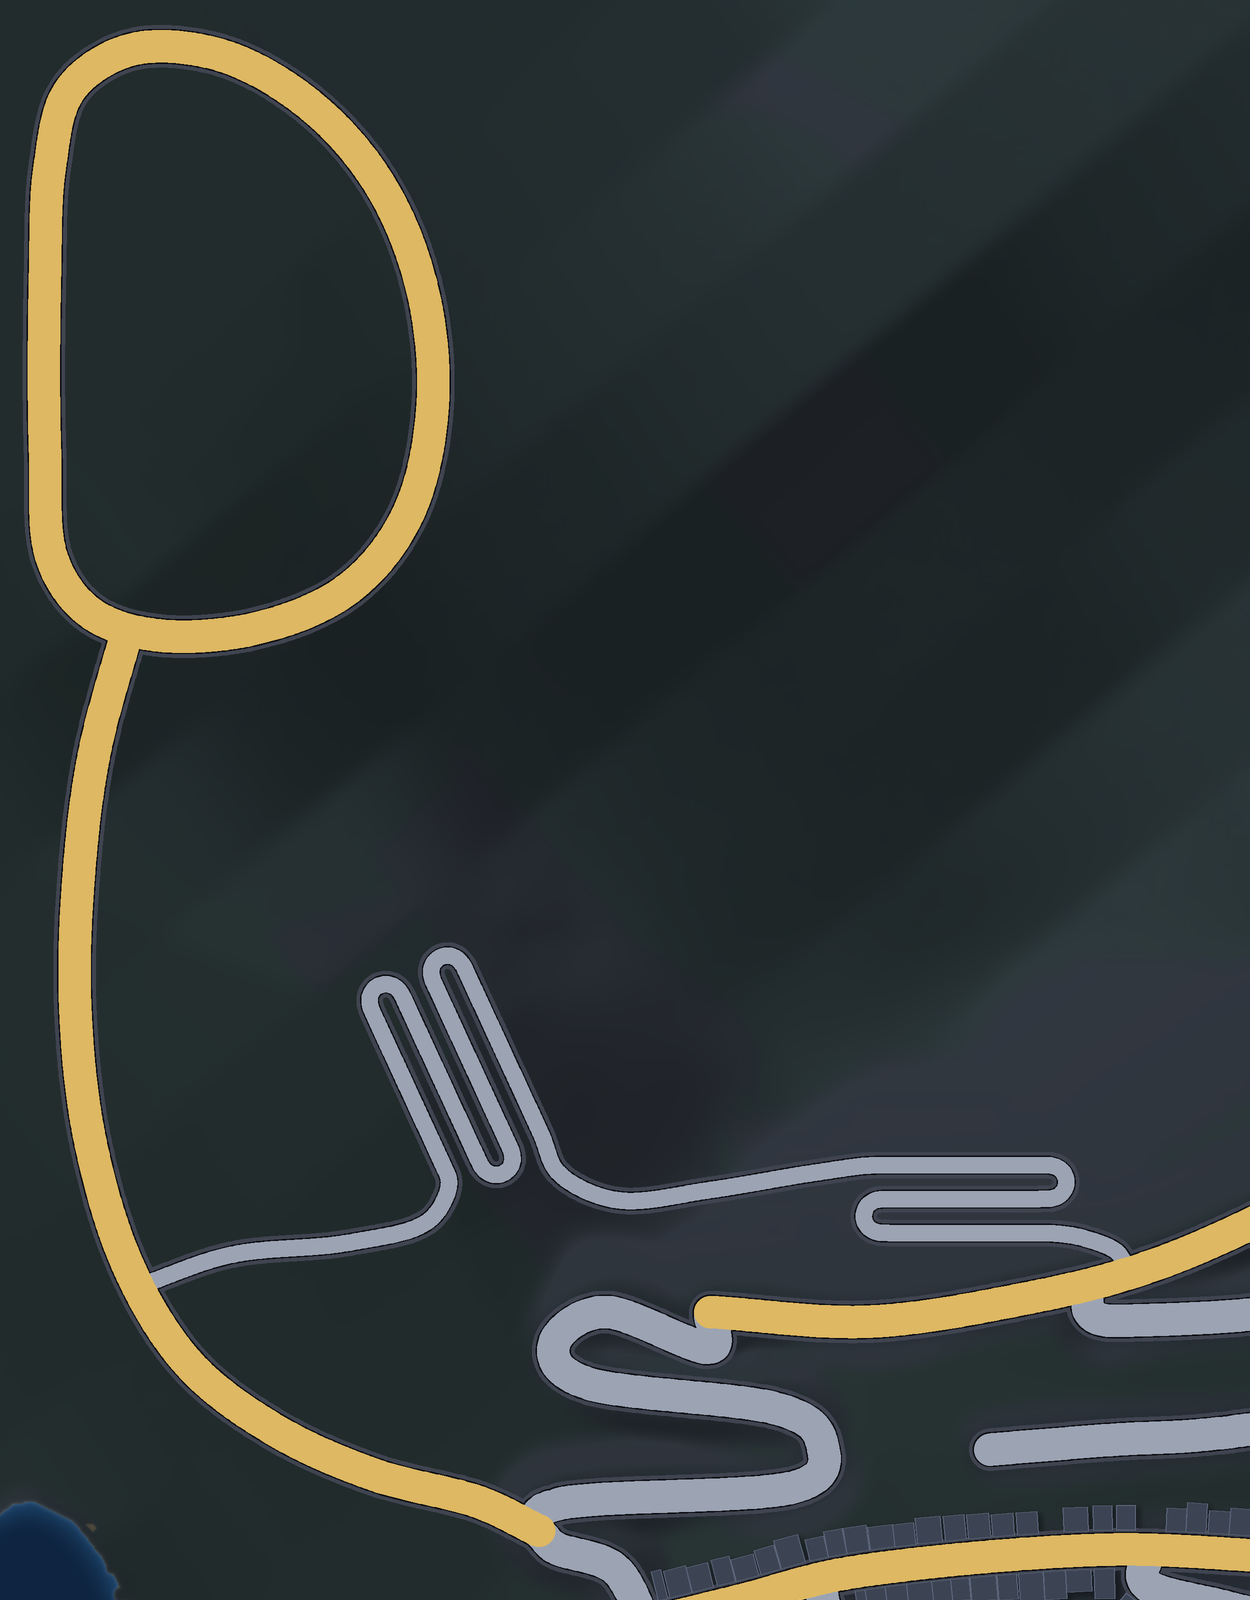
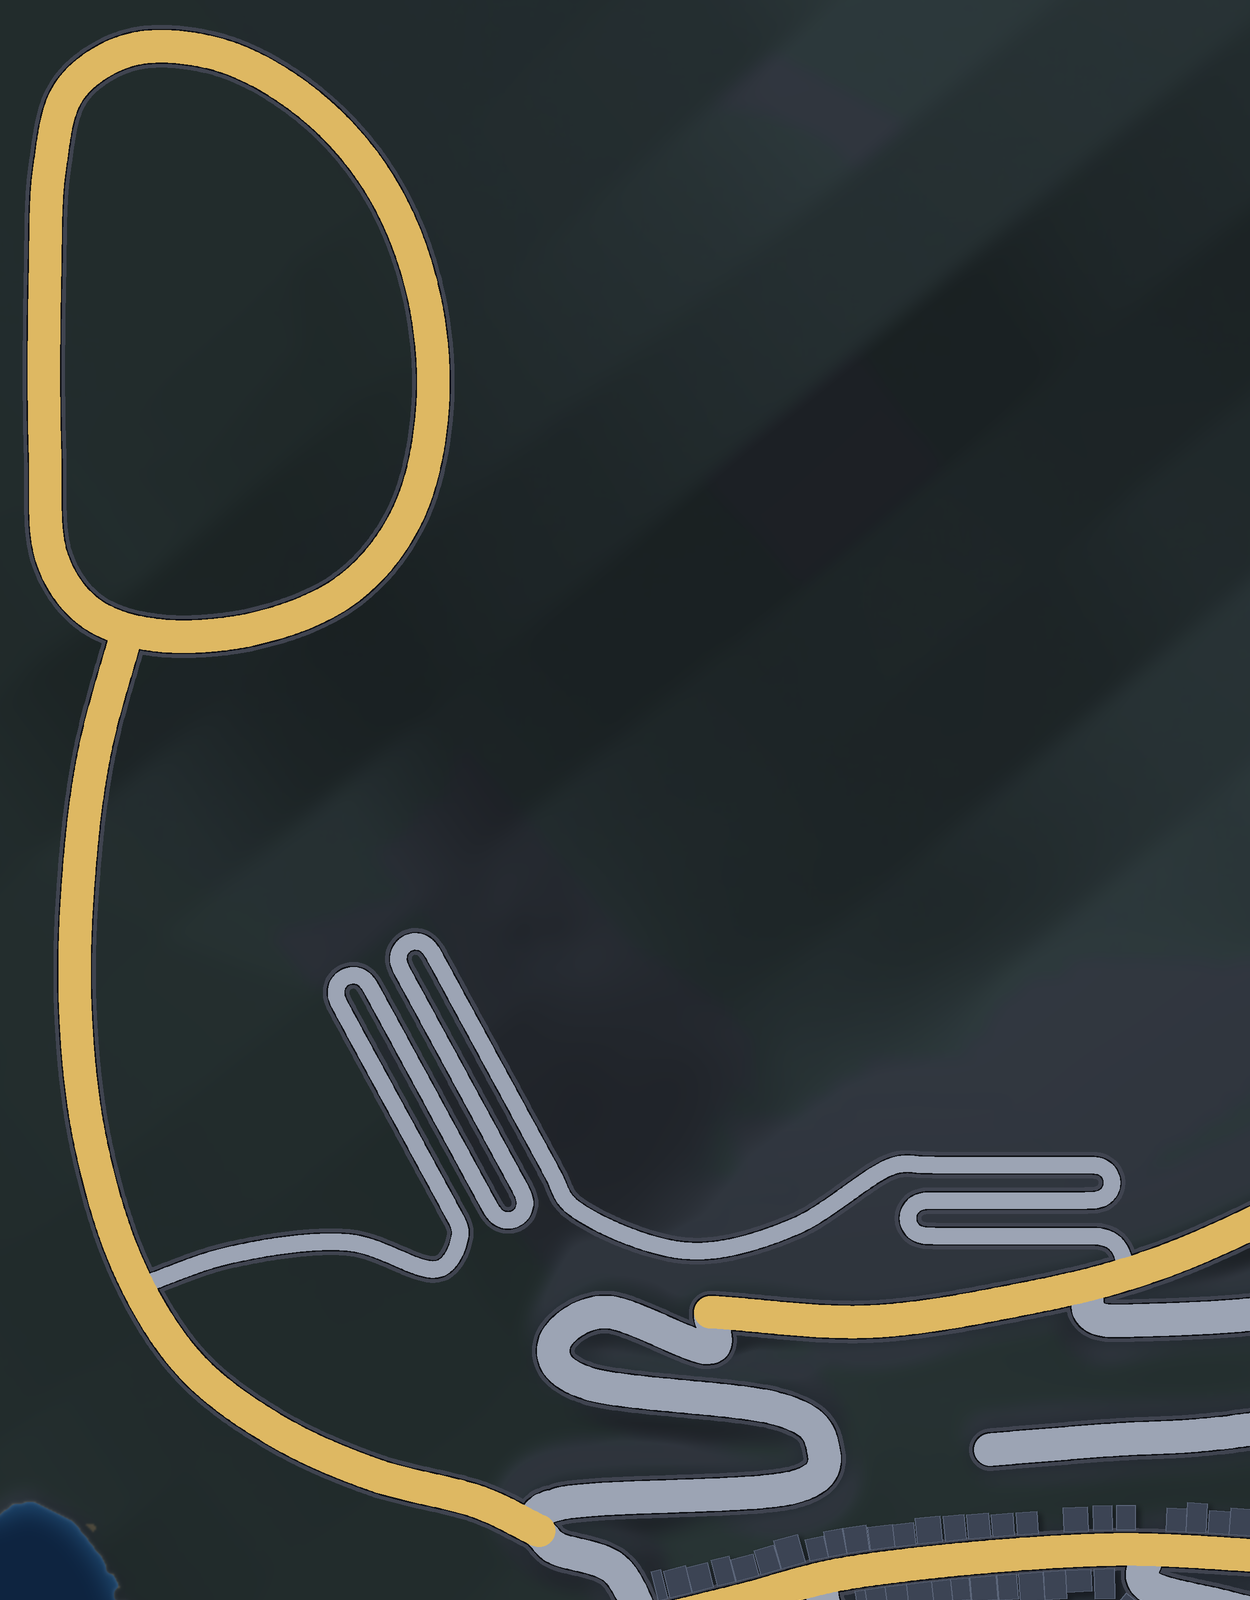
City Legends: Summit Pass refitted to the hill (pass_fit search: less digging), cliff road with a rock arch like the owner's photo, leaning stone parapets (no stepped, flickering wall tops), smooth joins onto the highway and the Mountain Road (lane test: no holes / kerbs / blocks, biggest step 0.23)

Changed region(s): [[0.2184, 0.5625, 0.9048, 0.8125]]

diff --git a/Games/CityLegends/tools/map_plan/highway_terrain.py b/Games/CityLegends/tools/map_plan/highway_terrain.py
@@ -29,7 +29,7 @@ OUT = os.path.join(ROOT, "build", "riviera_hw")
 
 CORE = 32 + 10 + 2  # carriageway + shoulder + a little
 REACH = 220  # banks end here at the latest
-CUT_SLOPE = 2.2  # rise per stud out from the shoulder (a steep rock cutting)
+CUT_SLOPE = 2.0  # rise per stud out from the shoulder (a steep rock cutting)
 FILL_SLOPE = 0.9  # fall per stud (an earth embankment)
 BLEND = 50  # the last studs of the reach fade back to the natural ground (no cliff at the edge)
 KEEP = 50  # cells this close to an existing road's centre line stay as they are
@@ -47,38 +47,50 @@ def main():
     hw = json.load(open(os.path.join(RIV, "highway.json")))["roads"]
     old = json.load(open(os.path.join(RIV, "roads.json")))["roads"]
 
-    best = np.full(H.shape, 1e9, dtype=np.float32)  # distance to the highway's centre line
-    road_y = np.zeros(H.shape, dtype=np.float32)
-    core_w = np.full(H.shape, CORE, dtype=np.float32)  # each cell's road's flat width (half)
+    best = np.full(H.shape, 1e9, dtype=np.float32)  # distance to the nearest highway centre line
+    road_y = np.zeros(H.shape, dtype=np.float32)       # that road's height (for the flat bed)
+    core_w = np.full(H.shape, CORE, dtype=np.float32)  # that road's flat half width
+    # (2026-11-04, the pass's stacked legs) every road nearby limits the ground: no higher than the
+    # lowest cut line of them all, no lower than the highest fill line; with only the nearest road's
+    # lines, the ground jumped by a whole leg's height half way between two legs
+    cut_min = np.full(H.shape, 1e9, dtype=np.float32)
+    fill_max = np.full(H.shape, -1e9, dtype=np.float32)
     near_old = np.full(H.shape, 1e9, dtype=np.float32)
 
-    def stamp(samples, radius, dist, yv=None, core=None):
+    def window(x, z, radius):
         r = int(radius / C) + 2
-        for s in samples:
-            x, y, z = s[0], s[1], s[2]
-            ci, cj = int((x - X0) / C), int((z - Z0) / C)
-            i0, i1 = max(ci - r, 0), min(ci + r + 1, H.shape[1])
-            j0, j1 = max(cj - r, 0), min(cj + r + 1, H.shape[0])
-            if i0 >= i1 or j0 >= j1:
-                continue
-            cx = X0 + C * (np.arange(i0, i1) + 0.5)
-            cz = Z0 + C * (np.arange(j0, j1) + 0.5)
-            dd = np.sqrt((cx[None, :] - x) ** 2 + (cz[:, None] - z) ** 2).astype(np.float32)
-            sub = dist[j0:j1, i0:i1]
-            m = dd < sub
-            sub[m] = dd[m]
-            if yv is not None:
-                yy = yv[j0:j1, i0:i1]
-                yy[m] = y
-            if core is not None:
-                cc = core_w[j0:j1, i0:i1]
-                # (the pass: its walls stand at the road's edge, no shoulders)
-                cc[m] = (s[6] + 4) if s[6] < 30 else CORE
+        ci, cj = int((x - X0) / C), int((z - Z0) / C)
+        i0, i1 = max(ci - r, 0), min(ci + r + 1, H.shape[1])
+        j0, j1 = max(cj - r, 0), min(cj + r + 1, H.shape[0])
+        if i0 >= i1 or j0 >= j1:
+            return None
+        cx = X0 + C * (np.arange(i0, i1) + 0.5)
+        cz = Z0 + C * (np.arange(j0, j1) + 0.5)
+        dd = np.sqrt((cx[None, :] - x) ** 2 + (cz[:, None] - z) ** 2).astype(np.float32)
+        return (slice(j0, j1), slice(i0, i1)), dd
 
     for r in hw:
-        stamp(r["s"], REACH, best, road_y, core=True)
+        for s in r["s"]:
+            win = window(s[0], s[2], REACH)
+            if not win:
+                continue
+            sl, dd = win
+            core = (s[6] + 4) if s[6] < 30 else CORE  # (the pass: walls at its edge, no shoulders)
+            out = np.maximum(dd - core, 0)
+            bed = s[1] - 1.5
+            np.minimum(cut_min[sl], bed + out * CUT_SLOPE, out=cut_min[sl])
+            np.maximum(fill_max[sl], bed - out * FILL_SLOPE, out=fill_max[sl])
+            sub = best[sl]
+            m = dd < sub
+            sub[m] = dd[m]
+            road_y[sl][m] = s[1]
+            core_w[sl][m] = core
     for r in old:
-        stamp(r["s"][::1], KEEP + 8, near_old)
+        for s in r["s"]:
+            win = window(s[0], s[2], KEEP + 8)
+            if win:
+                sl, dd = win
+                np.minimum(near_old[sl], dd, out=near_old[sl])
 
     newH = H.copy()
     newM = M.copy()
@@ -86,19 +98,17 @@ def main():
     core = zone & (best <= core_w)
     flat = road_y - 1.5
     out_d = np.maximum(best - core_w, 0)
-    cut_top = flat + out_d * CUT_SLOPE
-    fill_bot = flat - out_d * FILL_SLOPE
-    # core: flat; banks: the ground clipped between the fill and cut lines
     newH[core] = flat[core]
     bank = zone & ~core
-    newH[bank] = np.clip(H[bank], fill_bot[bank], cut_top[bank])
+    lo = np.minimum(fill_max, cut_min)
+    newH[bank] = np.clip(H[bank], lo[bank], cut_min[bank])
     fade = np.clip((best - (REACH - BLEND)) / BLEND, 0, 1)
     fade = fade * fade * (3 - 2 * fade)
     newH[bank] = newH[bank] * (1 - fade[bank]) + H[bank] * fade[bank]
     newM[core] = "A"
     cutm = bank & (H > newH + 0.3)
     fillm = bank & (H < newH - 0.3)
-    newM[cutm] = "L"
+    newM[cutm] = "R"  # (grey rock cuttings: the pale limestone read as snow)
     newM[fillm & (out_d < 30)] = "D"
     newM[fillm & (out_d >= 30)] = "G"
     # existing roads' ground stays
@@ -106,6 +116,17 @@ def main():
     newH[keep] = H[keep]
     newM[keep] = M[keep]
     changed = (np.abs(newH - H) > 0.12) | (newM != M)
+    # --restore x0 z0 x1 z1: also write the natural ground back over that box (where nothing above
+    # changes it and away from the old roads), undoing an earlier version's cuts and fills
+    if "--restore" in sys.argv:
+        k = sys.argv.index("--restore")
+        bx0, bz0, bx1, bz1 = (float(v) for v in sys.argv[k + 1:k + 5])
+        cx = X0 + C * (np.arange(H.shape[1]) + 0.5)
+        cz = Z0 + C * (np.arange(H.shape[0]) + 0.5)
+        box = ((cx[None, :] >= bx0) & (cx[None, :] <= bx1)) & ((cz[:, None] >= bz0) & (cz[:, None] <= bz1))
+        extra = box & ~changed & ~keep
+        print("restoring", int(extra.sum()), "cells to the natural ground")
+        changed = changed | extra
     print("cells changed:", int(changed.sum()), " deepest cut %.0f, highest fill %.0f" % (float((H - newH).max()), float((newH - H).max())))
 
     os.makedirs(OUT, exist_ok=True)

diff --git a/Games/CityLegends/tools/map_plan/highway.py b/Games/CityLegends/tools/map_plan/highway.py
@@ -50,7 +50,7 @@ PASS_END = (11951, -251)   # on the Mountain Road (the T; set to its nearest sam
 HAIRPIN_GAP = 68           # between the centre lines of two legs of a stack
 
 
-def stack(start, d, n_legs, length, side):
+def stack(start, d, n_legs, length, side, gap=None):
     """n_legs straight legs of `length` from `start` heading `d`, joined by hairpins; the next leg
     lies HAIRPIN_GAP to the `side` (+1: the right of the first leg's way, -1: its left)"""
     d = np.array(d, dtype=float)
@@ -59,7 +59,8 @@ def stack(start, d, n_legs, length, side):
     nrm = right * side
     pts = []
     p = np.array(start, dtype=float)
-    r = HAIRPIN_GAP / 2
+    gap = gap or HAIRPIN_GAP
+    r = gap / 2
     for k in range(n_legs):
         e = p + d * length
         for t in np.linspace(0, 1, int(length / 4) + 1)[:-1]:
@@ -70,33 +71,55 @@ def stack(start, d, n_legs, length, side):
         c = e + nrm * r
         for th in np.linspace(0, math.pi, 24)[:-1]:
             pts.append(c - nrm * r * math.cos(th) + d * r * math.sin(th))
-        p = e + nrm * HAIRPIN_GAP
+        p = e + nrm * gap
         d = -d
     return pts, p if n_legs % 2 == 1 else p, d
 
 
-def pass_line():
-    # approach from the T on the valley road, east to the foot of the west face
-    # (it comes up to the stack's first leg from the south, already turning onto it: no kink)
-    w_start = np.array((10600.0, -440.0))
-    w_d = np.array((-0.42, -0.91)) / np.linalg.norm((-0.42, -0.91))
-    a = catmull([PASS_START, (10160, -290), (10400, -315), (10560, -360), tuple(w_start), tuple(w_start + w_d * 40)], False, per=16)
+# the pass's shape (tools/map_plan/pass_fit.py searched these so the road sits on the hill, not deep in it)
+PASS_PARAMS = {
+    "w_x": 10622.5, "w_z": -342.5, "w_ang": -118.5, "w_len": 518.8, "w_gap": 71.0, "w_legs": 4,
+    "t1": 120.0, "t2": 100.0,
+    "s_x": 11550.0, "s_z": -470.0, "s_ang": 0.0, "s_len": 340.0, "s_gap": 71.0, "s_legs": 3,
+}
+
+
+def pass_line(P=None):
+    P = dict(PASS_PARAMS, **(P or {}))
+    # the west stack: legs along the face, climbing; each next leg further up (to the right)
+    ang = math.radians(P["w_ang"])
+    w_d = np.array((math.cos(ang), math.sin(ang)))
+    w_start = np.array((P["w_x"], P["w_z"]))
+    # approach from the T on the valley road, coming up to the first leg already turning onto it
+    a = catmull([PASS_START, (10160, -290), (10400, -315), tuple(w_start + np.array((-40, 80))), tuple(w_start), tuple(w_start + w_d * 40)], False, per=16)
     j = int(np.argmin(np.linalg.norm(a - w_start, axis=1)))
     a = a[:j]
-    # the west stack: legs NNW / SSE along the face, climbing; each next leg further up (east)
-    w_dir = (-0.42, -0.91)
-    ws_pts, _, _ = stack((10600, -440), w_dir, 4, 380, +1)
-    # across the south face, high up (the rock arch on the way), to the top of the south stack
-    last = ws_pts[-1]
-    t = catmull([tuple(last), (last[0] + 30, last[1] + 70), (10930, -400), (11120, -420), (11300, -450), (11420, -468)], False, per=16)
-    # the south stack: legs east / west, coming down towards the Mountain Road (each next leg lower: south)
-    ss_pts, _, d_end = stack((11460, -470), (1, 0.0), 3, 340, +1)
+    ws_pts, _, w_end_d = stack(tuple(w_start), tuple(w_d), int(P["w_legs"]), P["w_len"], +1, P["w_gap"])
+    # the south stack (legs coming down towards the Mountain Road, each next leg lower: to the right)
+    sang = math.radians(P["s_ang"])
+    s_d = np.array((math.cos(sang), math.sin(sang)))
+    s_start = np.array((P["s_x"], P["s_z"]))
+    ss_pts, _, d_end = stack(tuple(s_start), tuple(s_d), int(P["s_legs"]), P["s_len"], +1, P["s_gap"])
+    # across the face between them: leaving the west stack along its last leg, arriving along the
+    # south stack's first; two middle points, shifted across the line by t1 / t2
+    last = np.array(ws_pts[-1])
+    out_d = np.array(w_end_d) / np.linalg.norm(w_end_d)
+    a0 = last + out_d * 60
+    b0 = s_start - s_d * 60
+    line_d = (b0 - a0) / max(np.linalg.norm(b0 - a0), 1e-6)
+    nrm = np.array((-line_d[1], line_d[0]))
+    m1 = a0 + (b0 - a0) / 3 + nrm * P["t1"]
+    m2 = a0 + (b0 - a0) * 2 / 3 + nrm * P["t2"]
+    t = catmull([tuple(last), tuple(a0), tuple(m1), tuple(m2), tuple(b0), tuple(s_start)], False, per=16)
     # to the T on the Mountain Road
-    e = ss_pts[-1]
-    tail = catmull([tuple(e), (e[0] + 60, e[1] + 8), (PASS_END[0] - 10, PASS_END[1] - 40), PASS_END], False, per=16)
-    line = list(a) + [np.array(q) for q in ws_pts] + list(t[1:]) + [np.array(q) for q in ss_pts] + list(tail[1:])
+    # (one smooth turn: a quadratic curve through the corner where the last leg's line meets the
+    # line straight up from the T)
+    e = np.array(ss_pts[-1])
+    corner = np.array((PASS_END[0], e[1]))
+    end = np.array(PASS_END, dtype=float)
+    tail = [e * (1 - u) ** 2 + corner * 2 * u * (1 - u) + end * u * u for u in np.linspace(0, 1, 40)]
+    line = list(a) + [np.array(q) for q in ws_pts] + list(t[1:-1]) + [np.array(q) for q in ss_pts] + list(tail[1:])
     return np.array(line)
-
 
 
 def catmull(pts, closed, per=24):

diff --git a/Games/CityLegends/tools/map_plan/pass_fit.py b/Games/CityLegends/tools/map_plan/pass_fit.py
@@ -1,0 +1,99 @@
+"""
+Fits the Summit Pass to the hill (2026-11-04): the first build sat its hairpin legs too far up the
+face for their heights, so the road ran in cuttings up to ~150 studs deep. This searches the pass's
+shape parameters (highway.PASS_PARAMS: where each stack of hairpins starts, the legs' direction,
+length and spacing, the traverse between the stacks) one at a time, a few rounds, for the road that
+needs the least digging and filling, keeping clear of the Mountain Road and its own legs apart.
+Prints the best parameters to paste into highway.PASS_PARAMS.
+
+usage (from Games/CityLegends): python tools/map_plan/pass_fit.py
+"""
+import json
+import math
+import os
+import sys
+
+import numpy as np
+
+HERE = os.path.dirname(os.path.abspath(__file__))
+sys.path.insert(0, HERE)
+import highway as hw  # noqa: E402
+
+meta, H = hw.ground()
+old = json.load(open(os.path.join(hw.RIV, "roads.json")))["roads"]
+mr = [r for r in old if r["name"] == "Mountain Road"][0]["s"]
+mr_xz = np.array([[q[0], q[2]] for q in mr])
+others = np.array([[q[0], q[2]] for r in old if r["name"] not in ("Mountain Road",) for q in r["s"]])
+link = json.load(open(os.path.join(hw.RIV, "highway.json")))["roads"][0]
+link_xz = np.array([[q[0], q[2]] for q in link["s"]])
+link_y = np.array([q[1] for q in link["s"]])
+k = int(np.argmin(np.linalg.norm(link_xz - np.array(hw.PASS_START), axis=1)))
+hw.PASS_START = (float(link_xz[k, 0]), float(link_xz[k, 1]))
+y0 = float(link_y[k])
+m = int(np.argmin(np.linalg.norm(mr_xz - np.array(hw.PASS_END), axis=1)))
+hw.PASS_END = (float(mr_xz[m, 0]), float(mr_xz[m, 1]))
+y1 = mr[m][1]
+
+
+def score(P):
+    try:
+        ps, _ = hw.resample(hw.pass_line(P), False)
+    except Exception:
+        return 1e18, None
+    for _ in range(3):
+        q = ps.copy()
+        q[3:-3] = (ps[1:-5] + ps[2:-4] + ps[3:-3] + ps[4:-2] + ps[5:-1]) / 5
+        ps = q
+    g = hw.smooth(hw.sample_h(meta, H, ps[:, 0], ps[:, 1]), 6, False)
+    keep = hw.HIGHWAY_GRADE
+    hw.HIGHWAY_GRADE = hw.PASS_GRADE
+    y = hw.profile(g, hw.STEP, False, {0: y0, len(ps) - 1: y1})
+    hw.HIGHWAY_GRADE = keep
+    cut = np.maximum(g - y, 0)
+    fill = np.maximum(y - g, 0)
+    s = float(np.mean(cut ** 2) + 0.6 * np.mean(fill ** 2))
+    # clear of the Mountain Road (apart from the run into the T) and of the other roads
+    n = len(ps)
+    body = ps[: max(1, n - 30)]
+    dm = np.min(np.linalg.norm(body[:, None, :] - mr_xz[None, ::3, :], axis=2), axis=1)
+    s += float(np.sum(np.maximum(78 - dm, 0) ** 2)) * 50
+    # the pass's own legs apart (samples far along the road but close in space)
+    sub = ps[::3]
+    d2 = np.linalg.norm(sub[:, None, :] - sub[None, :, :], axis=2)
+    idx = np.arange(len(sub))
+    far = np.abs(idx[:, None] - idx[None, :]) > 40
+    s += float(np.sum(np.maximum(44 - d2[far], 0) ** 2)) * 20
+    # the grade it can't keep (the profile pins the ends): big penalty
+    gr = np.abs(np.diff(y)) / hw.STEP
+    s += float(np.sum(np.maximum(gr - hw.PASS_GRADE - 0.005, 0))) * 1e5
+    return s, (float(cut.max()), float(fill.max()), float(cut.mean()), len(ps) * hw.STEP)
+
+
+steps = {
+    "w_x": [-60, -30, 30, 60], "w_z": [-60, -30, 30, 60], "w_ang": [-12, -6, 6, 12], "w_len": [-60, -30, 30, 60],
+    "w_gap": [-12, -6, 6], "t1": [-80, -40, 40, 80], "t2": [-80, -40, 40, 80],
+    "s_x": [-60, -30, 30, 60], "s_z": [-60, -30, 30, 60], "s_ang": [-10, -5, 5, 10], "s_len": [-60, -30, 30, 60],
+    "s_gap": [-12, -6, 6],
+}
+P = dict(hw.PASS_PARAMS)
+best, info = score(P)
+print("start: score %.0f  max cut %.0f  max fill %.0f  mean cut %.1f  length %.0f" % (best, *info))
+for rnd in range(4):
+    improved = False
+    for key, deltas in steps.items():
+        for dv in deltas:
+            Q = dict(P)
+            Q[key] = P[key] + dv
+            if key in ("w_gap", "s_gap") and not (48 <= Q[key] <= 76):
+                continue
+            if key in ("w_len", "s_len") and not (220 <= Q[key] <= 520):
+                continue
+            sc, inf = score(Q)
+            if sc < best:
+                best, info, P, improved = sc, inf, Q, True
+    print("round %d: score %.0f  max cut %.0f  max fill %.0f  mean cut %.1f  length %.0f" % (rnd + 1, best, *info))
+    # finer steps next round
+    steps = {k: [d / 2 for d in v] for k, v in steps.items()}
+    if not improved and rnd > 1:
+        break
+print("PASS_PARAMS = " + json.dumps({k: round(v, 1) if isinstance(v, float) else v for k, v in P.items()}))

diff --git a/City Legends/City Legends.md b/City Legends/City Legends.md
@@ -1080,9 +1080,9 @@ Owner: "there is a traffic problem here, its because they dont know how to turn 
 Owner (while it was being built): "Make the highway roads like this" (Stelvio-pass photos: stacked hairpins; a rock arch over a cliff road), "make the summit roads lead to these roads which will make a long loop and then arrive back at the roads of monaco", "if you already finish the long highway dont abandon it, just make it lead to these tight curves 1+1 lane roads", "quality over quantity". Map: [[Riviera Highway - map.png]].
 - **The loop you can drive:** town → Mountain Road (the summit road) → **Summit Pass** (1+1, tight hairpins) → **Riviera Highway** (2+2) → back into town on the West Switchbacks. The highway also has its own **Highway Loop** in the north valley.
 - **Riviera Highway** (2+2, gold on the map, 2,320 studs): leaves the West Switchbacks' lower west hairpin (it carries straight on out of the bend) and runs up the west valley, a ~1,600-stud nearly straight run, to a T with the Highway Loop (3,252 studs, sweeping bends round a low hill and a ~900-stud straight up the valley floor). Grades at most 8.5%, concrete shoulders, steel crash barriers both sides (2,512 parts), 168 umbrella pines on the banks.
-- **Summit Pass** (1+1, 4,708 studs): from a T on the highway's valley road east to the peak's west face, up a stack of 4 legs and 3 hairpins (Stelvio-style, legs 68 studs apart), across the south face high up (345) through a **rock arch** (a 60-stud natural rock tunnel where the road cuts through the shoulder), then down a stack of 3 legs and 2 hairpins on the south face to a T on the Mountain Road. Grades at most 10%, eased to flat at both joins; low cream stone walls along both edges (like the photos' parapets).
+- **Summit Pass** (1+1, 5,328 studs): from a T on the highway's valley road east to the peak's west face, up a stack of 4 legs and 3 hairpins (Stelvio-style, legs 71 studs apart), along a cliff above the Mountain Road with the sea below and through a **rock arch** (rock pillars on the cliff side with openings, like the owner's photo), then down a stack of 3 legs and 2 hairpins on the south face, cut into the rock, to a T on the Mountain Road. Grades at most 10%, eased to flat at both joins; low cream stone parapets along both edges that lean with the road (the first walls were stepped and their tops flickered: owner, "the side is glitching out a little"). The shape was searched by `tools/map_plan/pass_fit.py` (least digging: average cut 48 → 29 studs). Pictures: [[Summit Pass - rock arch.jpg]], [[Summit Pass - cliff road above the Mountain Road.jpg]], [[Summit Pass - hairpin leg.jpg]], [[Summit Pass - the stack from the Mountain Road.jpg]].
 - **Ground:** cut and filled along the roads (tools/map_plan/highway_terrain.py; pale rock cuttings, earth embankments, the rest untouched); the first try (from the Mountain Road's west end) was put back because that junction is the hairpin the next prompt rebuilds.
 - **Traffic:** lanes added (`src/shared/RivieraLanesHighway.lua`: Studio refuses a script over 200,000 characters, so they're a second module that RivieraTraffic joins on), at most 10 traffic cars on the highway and pass (`Config.Traffic.RivieraHighwayMax`; seen: exactly 10). The pass is one lane each way in traffic.
 - **Also:** fast travel **Riviera Highway** (the valley straight), a race **Riviera Highway** (5,518 studs: the highway, once round the loop), the minimap redrawn (it now reaches 560 studs further west; the marina car park is on it too).
-- **Checked:** the lane test on every highway and pass lane: 0 holes, 0 kerbs / walls, 0 things in the lane, biggest step 0.32 (at the two pass joins). A test car drove the whole highway, the loop and the whole pass (100 s, up to 345 and down). The junction mouths: the pass's surface was bent to meet the highway's and the Mountain Road's (Reshape), gaps patched (HoleFill). Map pieces moved out of the way are in `ServerStorage.HighwayHidden` (each with WasIn).
-- **Not done yet:** pictures (Studio's view wasn't drawing while this was built: the window was probably minimised), yachts, lamps on the pass.
+- **Checked:** the lane test on every highway and pass lane: 0 holes, 0 kerbs / walls, 0 things in the lane, biggest step 0.23. A test car drove the whole highway, the loop and the whole pass (100 s, up to 345 and down). The junction mouths: the pass's surface was bent to meet the highway's and the Mountain Road's (Reshape), gaps patched (HoleFill). Map pieces moved out of the way are in `ServerStorage.HighwayHidden` (each with WasIn).
+- **Not done yet:** yachts, lamps on the pass. The south stack is cut deep into the steep face (a big grey rock bowl seen from the Mountain Road): the face is too steep and the Mountain Road too close below for the legs to sit on the slope like the Stelvio's.
